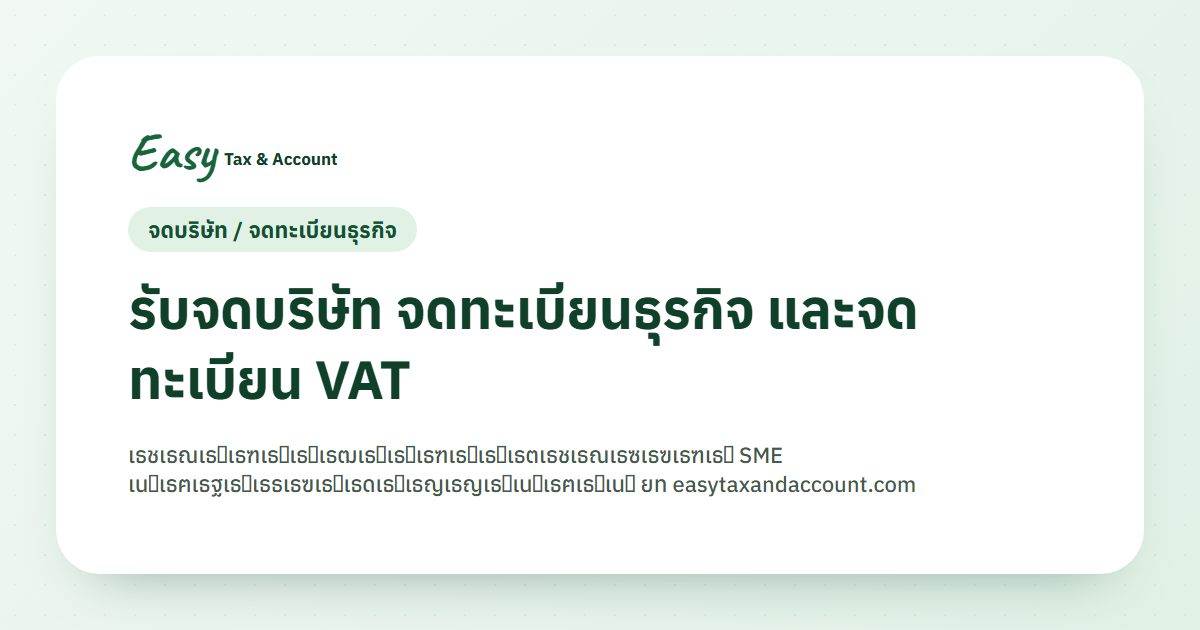
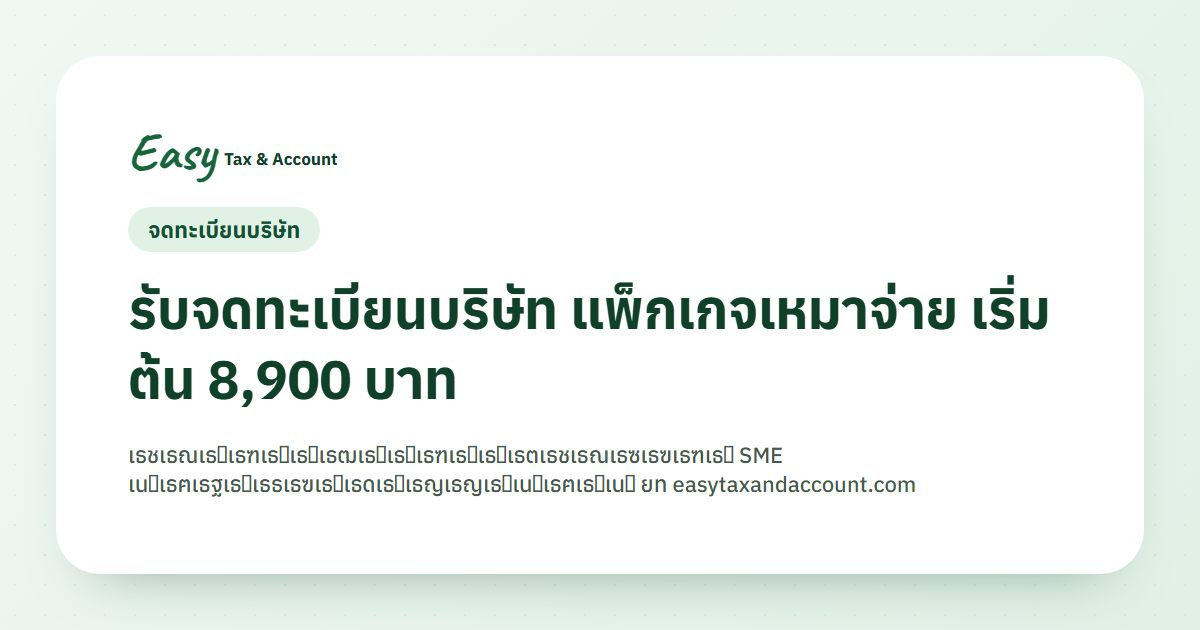
Add company registration packages (START / PLUS / PREMIUM)
- Service data can now carry packages, highlights and price notes; the service page renders package cards, a why-us checklist and a notes box
- Company registration page rewritten around the 8,900 / 11,900 / 15,900 baht packages with the 4-step process
- Package buttons prefill the quote form with the chosen package
- Offer structured data for the packages, and a refreshed share image

Changed region(s): [[0.2158, 0.4222, 0.8942, 0.5429], [0.0925, 0.5429, 0.4008, 0.6333], [0.1542, 0.3016, 0.37, 0.4222]]

diff --git a/src/data/services.ts b/src/data/services.ts
@@ -107,28 +107,102 @@ export const services: Service[] = [
   },
   {
     id: 'company-registration',
-    title: 'จดบริษัท / จดทะเบียนธุรกิจ',
-    description: 'ให้คำปรึกษาและดำเนินการครบทุกขั้นตอน',
+    title: 'จดทะเบียนบริษัท',
+    description: 'แพ็กเกจเหมาจ่าย เริ่มต้น 8,900 บาท รวมค่าธรรมเนียมราชการ',
     icon: Building2,
     featured: true,
-    pageTitle: 'รับจดบริษัท จดทะเบียนธุรกิจ และจดทะเบียน VAT',
+    pageTitle: 'รับจดทะเบียนบริษัท แพ็กเกจเหมาจ่าย เริ่มต้น 8,900 บาท',
     metaDescription:
-      'บริการจดทะเบียนบริษัท ห้างหุ้นส่วน จดทะเบียนพาณิชย์ และจดทะเบียนภาษีมูลค่าเพิ่ม ให้คำปรึกษาตั้งแต่เลือกรูปแบบธุรกิจจนเปิดดำเนินการได้',
+      'รับจดทะเบียนบริษัทครบวงจร เริ่มต้น 8,900 บาท รวมค่าธรรมเนียมราชการ ให้คำปรึกษา จองชื่อ เตรียมเอกสาร ยื่นจดทะเบียน พร้อมแพ็กเกจจด VAT ประกันสังคม และวางระบบบัญชี',
     intro: [
-      'ก่อนจดทะเบียน สิ่งสำคัญคือเลือกรูปแบบที่เหมาะกับธุรกิจจริง ๆ ระหว่างบุคคลธรรมดากับนิติบุคคล เพราะมีผลทั้งเรื่องภาษี ความน่าเชื่อถือ และภาระเอกสาร',
-      'ทีม Easy ให้คำปรึกษาก่อนตัดสินใจ แล้วดำเนินการจดทะเบียนให้ครบทุกขั้นตอน พร้อมวางระบบบัญชีให้ตั้งแต่วันแรก',
+      'เริ่มต้นธุรกิจอย่างมั่นใจ ให้ Easy Tax & Account ดูแลตั้งแต่เริ่มต้น บริการรับจดทะเบียนบริษัทครบวงจร ตั้งแต่ให้คำปรึกษา จองชื่อ จัดเตรียมเอกสาร ยื่นจดทะเบียน และแนะนำสิ่งที่ต้องดำเนินการหลังจัดตั้งบริษัท',
+      'แพ็กเกจราคาเหมาจ่าย พร้อมค่าธรรมเนียมราชการ สำหรับทุนจดทะเบียนไม่เกิน 1,000,000 บาท',
     ],
     includes: [
-      'ให้คำปรึกษาเลือกรูปแบบธุรกิจและวางแผนภาษีเบื้องต้น',
-      'ตรวจและจองชื่อนิติบุคคล จัดเตรียมเอกสารจดทะเบียน',
-      'จดทะเบียนบริษัทจำกัด ห้างหุ้นส่วน หรือจดทะเบียนพาณิชย์',
-      'ขอเลขประจำตัวผู้เสียภาษี และจดทะเบียนภาษีมูลค่าเพิ่ม (ถ้าต้องการหรือเข้าเกณฑ์)',
-      'ขึ้นทะเบียนนายจ้างกับประกันสังคม สำหรับกิจการที่มีลูกจ้าง',
+      'ให้คำปรึกษาก่อนจดทะเบียน',
+      'ตรวจสอบและจัดเตรียมเอกสาร',
+      'จองชื่อบริษัทและจัดทำคำขอจดทะเบียน',
+      'ดำเนินการยื่นจดทะเบียนบริษัท และติดตามงานจนจดทะเบียนสำเร็จ',
+      'ส่งมอบเอกสารสำคัญหลังจดทะเบียน',
+      'ให้คำแนะนำเกี่ยวกับสิ่งที่ต้องดำเนินการหลังจดทะเบียน',
+    ],
+    packages: [
+      {
+        id: 'start',
+        name: 'START',
+        tagline: 'จดทะเบียนบริษัท — เหมาะสำหรับผู้ที่ต้องการจัดตั้งบริษัทและให้ผู้เชี่ยวชาญดูแลขั้นตอนการจดทะเบียนให้ครบ',
+        price: '8,900',
+        unit: 'บาท',
+        priceNote: 'รวมค่าธรรมเนียมราชการตามรายการที่กำหนดแล้ว',
+        features: [
+          'ให้คำปรึกษาก่อนจดทะเบียน',
+          'ตรวจสอบและจัดเตรียมเอกสาร',
+          'จองชื่อบริษัท',
+          'จัดทำคำขอจดทะเบียน',
+          'ดำเนินการยื่นจดทะเบียนบริษัท',
+          'ค่าธรรมเนียมราชการตามรายการในแพ็กเกจ',
+          'เอกสารสำคัญหลังจดทะเบียน',
+          'ติดตามงานจนจดทะเบียนสำเร็จ',
+          'ให้คำแนะนำเกี่ยวกับสิ่งที่ต้องดำเนินการหลังจดทะเบียน',
+        ],
+      },
+      {
+        id: 'plus',
+        name: 'PLUS',
+        tagline: 'จดบริษัท + พร้อมดำเนินธุรกิจ — เหมาะสำหรับธุรกิจใหม่ที่ต้องการเตรียมความพร้อมด้านภาษีและการดำเนินงานหลังจัดตั้งบริษัท',
+        price: '11,900',
+        unit: 'บาท',
+        priceNote: 'รวมค่าธรรมเนียมราชการตามรายการที่กำหนดแล้ว',
+        featuresLabel: 'ได้รับทุกอย่างในแพ็กเกจ START พร้อม',
+        features: [
+          'ขึ้นทะเบียนภาษีมูลค่าเพิ่ม (VAT)',
+          'ขึ้นทะเบียนประกันสังคม',
+          'จัดเตรียมเอกสารสำหรับการยื่น VAT และประกันสังคม',
+          'Checklist สิ่งที่ต้องดำเนินการหลังจดบริษัท',
+          'ให้คำแนะนำด้านบัญชีและภาษีเบื้องต้น',
+        ],
+        highlighted: true,
+        badge: 'แนะนำ',
+      },
+      {
+        id: 'premium',
+        name: 'PREMIUM',
+        tagline: 'จดบริษัท + วางระบบบัญชี — เหมาะสำหรับเจ้าของธุรกิจที่ต้องการเริ่มต้นอย่างเป็นระบบตั้งแต่วันแรก',
+        price: '15,900',
+        unit: 'บาท',
+        priceNote: 'รวมค่าธรรมเนียมราชการตามรายการที่กำหนดแล้ว',
+        featuresLabel: 'ได้รับทุกอย่างในแพ็กเกจ PLUS พร้อม',
+        features: [
+          'วางระบบเอกสารบัญชีเบื้องต้น',
+          'ให้คำปรึกษาภาษีสำหรับธุรกิจใหม่',
+          'Checklist เอกสารบัญชีที่ต้องจัดเตรียม',
+          'ให้คำปรึกษาด้านบัญชีและภาษีหลังจดทะเบียน 60 วัน',
+        ],
+      },
+    ],
+    priceNotes: [
+      'ราคาดังกล่าวสำหรับทุนจดทะเบียนไม่เกิน 1,000,000 บาท',
+      'ค่าธรรมเนียมราชการรวมเฉพาะรายการที่ระบุไว้ในแพ็กเกจ',
+      'กรณีมีค่าใช้จ่ายเพิ่มเติมจากเงื่อนไขปกติ เช่น เอกสารหรือใบอนุญาตเฉพาะธุรกิจ สถานที่ตั้งบริษัท/สำนักงานเสมือน หรือค่าใช้จ่ายอื่นนอกเหนือจากแพ็กเกจ จะมีการแจ้งรายละเอียดและค่าใช้จ่ายให้ทราบก่อนดำเนินการ',
+      'การขึ้นทะเบียน VAT และประกันสังคมเป็นไปตามเงื่อนไขและเอกสารที่หน่วยงานกำหนด',
+    ],
+    highlights: [
+      'ดูแลตั้งแต่ก่อนจดจนถึงหลังจดทะเบียน',
+      'มีผู้เชี่ยวชาญด้านบัญชีและภาษีให้คำแนะนำ',
+      'แจ้งรายละเอียดค่าใช้จ่ายชัดเจน',
+      'มีแพ็กเกจให้เลือกตามความต้องการ',
+      'ต่อยอดบริการบัญชีและภาษีสำหรับธุรกิจได้ครบวงจร',
     ],
     forWho: [
-      'ผู้ที่กำลังเริ่มธุรกิจและยังไม่แน่ใจว่าควรจดบริษัทหรือไม่',
-      'ร้านค้าออนไลน์ที่ยอดขายเริ่มสูงและอยากทำให้ถูกต้อง',
+      'ผู้ที่กำลังเริ่มธุรกิจและต้องการจัดตั้งบริษัทให้ถูกต้องตั้งแต่แรก',
+      'ร้านค้าออนไลน์ที่ยอดขายเริ่มสูงและอยากทำให้เป็นระบบ',
       'ธุรกิจที่ต้องการออกใบกำกับภาษีให้ลูกค้าองค์กร',
+    ],
+    process: [
+      { step: 'ปรึกษาและวางแผน', detail: 'พูดคุยรายละเอียดธุรกิจและตรวจสอบข้อมูลเบื้องต้น' },
+      { step: 'จองชื่อและจัดเตรียมเอกสาร', detail: 'ช่วยเตรียมข้อมูลและเอกสารที่จำเป็นสำหรับการจดทะเบียน' },
+      { step: 'ดำเนินการจดทะเบียน', detail: 'ยื่นคำขอและติดตามขั้นตอนการจดทะเบียนกับหน่วยงานที่เกี่ยวข้อง' },
+      { step: 'รับเอกสารและแนะนำหลังจด', detail: 'ส่งมอบเอกสารสำคัญ พร้อมแนะนำสิ่งที่ธุรกิจควรดำเนินการต่อ' },
     ],
     relatedArticleIds: ['company-vs-individual', 'what-is-vat', 'first-employee-checklist'],
   },

diff --git a/src/pages/ServicePage.tsx b/src/pages/ServicePage.tsx
@@ -1,4 +1,5 @@
-import { ArrowRight, Check, MessageCircle, Send } from 'lucide-react';
+import { ArrowRight, Check, Info, MessageCircle, Send, Sparkles } from 'lucide-react';
+import { cn } from '../lib/cn';
 import { articles } from '../data/articles';
 import { services } from '../data/services';
 import { pricingDisclaimer } from '../data/pricing';
@@ -114,14 +115,146 @@ export function ServicePage({ service }: { service: Service }) {
         </div>
       </section>
 
+      {/* แพ็กเกจราคา (ถ้าบริการนี้มี) */}
+      {service.packages && service.packages.length > 0 && (
+        <section aria-labelledby="service-packages-title" className="bg-cream-50 py-14 sm:py-16 lg:py-20">
+          <div className="container-page">
+            <div className="mx-auto max-w-2xl text-center">
+              <h2 id="service-packages-title" className="text-2xl font-bold text-brand-900 sm:text-3xl lg:text-4xl">
+                เลือกแพ็กเกจที่เหมาะกับธุรกิจของคุณ
+              </h2>
+              <p className="mt-3 text-ink-soft">ราคาเหมาจ่าย รวมค่าธรรมเนียมราชการตามรายการในแพ็กเกจแล้ว</p>
+            </div>
+
+            <ul className="mx-auto mt-10 grid max-w-md gap-6 lg:mt-14 lg:max-w-none lg:grid-cols-3 lg:gap-6">
+              {service.packages.map((pkg) => (
+                <li key={pkg.id} className="flex">
+                  <article
+                    aria-labelledby={`pkg-${pkg.id}-title`}
+                    className={cn(
+                      'relative flex w-full flex-col rounded-[1.75rem] p-7 transition duration-300 ease-out sm:p-8',
+                      pkg.highlighted
+                        ? 'bg-white shadow-lift ring-2 ring-brand-600 lg:-my-4 lg:py-11'
+                        : 'border border-brand-100 bg-white shadow-soft hover:-translate-y-1 hover:shadow-lift',
+                    )}
+                  >
+                    {pkg.badge && (
+                      <span className="absolute -top-3.5 right-6 inline-flex items-center gap-1 rounded-full bg-sun-400 px-3.5 py-1 text-sm font-bold text-brand-950 shadow-[0_6px_16px_-8px_rgb(226_176_20/0.9)]">
+                        <Sparkles className="size-3.5" aria-hidden="true" />
+                        {pkg.badge}
+                      </span>
+                    )}
+
+                    <h3 id={`pkg-${pkg.id}-title`} className="text-sm font-bold tracking-[0.16em] text-brand-600">
+                      {pkg.name}
+                    </h3>
+                    <p className="mt-2 text-[0.9375rem] leading-relaxed text-ink-soft">{pkg.tagline}</p>
+
+                    <div className="mt-6 border-b border-dashed border-brand-200 pb-6">
+                      <p className="flex flex-wrap items-baseline gap-x-2">
+                        <span className="text-[2.5rem] font-bold leading-none tracking-tight text-brand-900">{pkg.price}</span>
+                        <span className="text-sm font-medium text-ink-muted">{pkg.unit}</span>
+                      </p>
+                      {pkg.priceNote && <p className="mt-2.5 text-[0.8125rem] text-ink-muted">* {pkg.priceNote}</p>}
+                    </div>
+
+                    {pkg.featuresLabel && (
+                      <p className="mt-6 text-[0.9375rem] font-semibold text-brand-800">{pkg.featuresLabel}</p>
+                    )}
+                    <ul className={cn('space-y-3', pkg.featuresLabel ? 'mt-3' : 'mt-6')}>
+                      {pkg.features.map((feature) => (
+                        <li key={feature} className="flex items-start gap-3 text-[0.9375rem] leading-relaxed text-ink">
+                          <span
+                            aria-hidden="true"
+                            className={cn(
+                              'mt-0.5 grid size-5 shrink-0 place-items-center rounded-full',
+                              pkg.highlighted ? 'bg-brand-600 text-white' : 'bg-brand-100 text-brand-700',
+                            )}
+                          >
+                            <Check className="size-3.5" strokeWidth={3} />
+                          </span>
+                          {feature}
+                        </li>
+                      ))}
+                    </ul>
+
+                    <Button
+                      size="lg"
+                      fullWidth
+                      variant={pkg.highlighted ? 'primary' : 'secondary'}
+                      className="mt-8"
+                      onClick={() =>
+                        openLeadForm({
+                          mode: 'quote',
+                          serviceId: service.id,
+                          note: `สนใจแพ็กเกจ ${pkg.name} (${service.title} ${pkg.price} ${pkg.unit})`,
+                        })
+                      }
+                      aria-label={`สนใจแพ็กเกจ ${pkg.name}`}
+                    >
+                      สนใจแพ็กเกจนี้
+                    </Button>
+                  </article>
+                </li>
+              ))}
+            </ul>
+
+            {service.priceNotes && (
+              <div className="mx-auto mt-10 max-w-3xl rounded-2xl border border-cream-300 bg-white px-5 py-5 sm:px-7">
+                <h3 className="flex items-center gap-2 font-bold text-brand-900">
+                  <Info className="size-5 text-brand-600" aria-hidden="true" />
+                  หมายเหตุ
+                </h3>
+                <ul className="mt-3 space-y-2.5">
+                  {service.priceNotes.map((note) => (
+                    <li key={note} className="flex gap-3 text-[0.9375rem] leading-relaxed text-ink-soft">
+                      <span aria-hidden="true" className="mt-[0.7em] size-1.5 shrink-0 rounded-full bg-brand-300" />
+                      {note}
+                    </li>
+                  ))}
+                </ul>
+              </div>
+            )}
+          </div>
+        </section>
+      )}
+
+      {/* จุดเด่นของบริการ */}
+      {service.highlights && service.highlights.length > 0 && (
+        <section aria-labelledby="service-highlights-title" className="bg-white py-14 sm:py-16">
+          <div className="container-page">
+            <h2 id="service-highlights-title" className="text-2xl font-bold text-brand-900 sm:text-3xl">
+              ทำไมต้อง Easy Tax &amp; Account?
+            </h2>
+            <ul className="mt-7 grid gap-3 sm:grid-cols-2 lg:grid-cols-3 lg:gap-4">
+              {service.highlights.map((item) => (
+                <li
+                  key={item}
+                  className="flex items-start gap-3 rounded-2xl border border-brand-100 bg-cream-50 px-5 py-4 text-[0.9375rem] leading-relaxed text-ink"
+                >
+                  <span aria-hidden="true" className="mt-0.5 grid size-5 shrink-0 place-items-center rounded-full bg-brand-600 text-white">
+                    <Check className="size-3.5" strokeWidth={3} />
+                  </span>
+                  {item}
+                </li>
+              ))}
+            </ul>
+          </div>
+        </section>
+      )}
+
       {/* ราคา + CTA */}
       <section aria-labelledby="service-price-title" className="bg-cream-50 py-14 sm:py-16">
         <div className="container-page">
           <div className="mx-auto max-w-3xl rounded-[1.75rem] border border-cream-300 bg-white p-7 text-center shadow-soft sm:p-10">
             <h2 id="service-price-title" className="text-2xl font-bold text-brand-900 sm:text-3xl">
-              ค่าบริการเท่าไหร่?
+              {service.packages ? 'พร้อมเริ่มต้นธุรกิจของคุณหรือยัง?' : 'ค่าบริการเท่าไหร่?'}
             </h2>
-            <p className="mx-auto mt-4 max-w-2xl text-[1.0625rem] leading-relaxed text-ink-soft">{pricingDisclaimer}</p>
+            <p className="mx-auto mt-4 max-w-2xl text-[1.0625rem] leading-relaxed text-ink-soft">
+              {service.packages
+                ? 'ให้ Easy Tax & Account ช่วยดูแลเรื่องจดทะเบียน บัญชี และภาษี ตั้งแต่วันแรก ปรึกษาก่อนตัดสินใจได้ฟรี'
+                : pricingDisclaimer}
+            </p>
             <div className="mt-7 flex flex-col justify-center gap-3 sm:flex-row">
               <Button size="lg" onClick={() => openLeadForm({ mode: 'quote', serviceId: service.id })}>
                 <Send aria-hidden="true" />

diff --git a/src/types.ts b/src/types.ts
@@ -41,6 +41,12 @@ export interface Service {
   process?: { step: string; detail: string }[];
   /** id ของบทความที่เกี่ยวข้อง */
   relatedArticleIds: string[];
+  /** แพ็กเกจราคาของบริการนี้ (ถ้ามี จะแสดงเป็นการ์ดราคาในหน้าบริการ) */
+  packages?: ServicePackage[];
+  /** จุดเด่นของบริการ แสดงเป็นเช็กลิสต์ "ทำไมต้อง Easy" */
+  highlights?: string[];
+  /** หมายเหตุเรื่องราคา/เงื่อนไข แสดงใต้แพ็กเกจ */
+  priceNotes?: string[];
 }
 
 export interface PricingPlan {
@@ -117,8 +123,28 @@ export interface LeadFormValues {
   consent: boolean;
 }
 
+export interface ServicePackage {
+  id: string;
+  /** ชื่อแพ็กเกจ เช่น START */
+  name: string;
+  /** คำโปรยสั้น ๆ ใต้ชื่อแพ็กเกจ */
+  tagline: string;
+  /** ราคาแบบเหมาจ่าย เช่น "8,900" */
+  price: string;
+  unit: string;
+  /** ข้อความใต้ราคา เช่น "รวมค่าธรรมเนียมราชการตามรายการที่กำหนด" */
+  priceNote?: string;
+  /** หัวข้อเหนือรายการ เช่น "ได้รับทุกอย่างใน START พร้อม" */
+  featuresLabel?: string;
+  features: string[];
+  highlighted?: boolean;
+  badge?: string;
+}
+
 export interface LeadPreset {
   mode?: LeadMode;
   planId?: string;
   serviceId?: string;
+  /** ข้อความที่เติมในช่อง "รายละเอียดเพิ่มเติม" ให้อัตโนมัติ เช่น แพ็กเกจที่ลูกค้าสนใจ */
+  note?: string;
 }

diff --git a/src/seo.ts b/src/seo.ts
@@ -193,6 +193,17 @@ export function getPageMeta(route: Route): PageMeta {
               telephone: siteConfig.contact.phoneDisplay,
               email: siteConfig.contact.email,
             },
+            ...(service.packages
+              ? {
+                  offers: service.packages.map((pkg) => ({
+                    '@type': 'Offer',
+                    name: `${service.title} — ${pkg.name}`,
+                    price: pkg.price.replace(/,/g, ''),
+                    priceCurrency: 'THB',
+                    url: absoluteUrl(path),
+                  })),
+                }
+              : {}),
           },
           breadcrumb([
             { name: 'หน้าแรก', path: '/' },

diff --git a/src/components/LeadFormModal.tsx b/src/components/LeadFormModal.tsx
@@ -60,7 +60,7 @@ function LeadForm() {
     vatStatus: '',
     services: preset.serviceId ? [preset.serviceId] : [],
     plan: selectedPlan?.id ?? '',
-    details: '',
+    details: preset.note ?? '',
     consent: false,
   });
   const [errors, setErrors] = useState<Errors>({});

diff --git a/README.md b/README.md
@@ -123,6 +123,8 @@ src/
 | `relatedArticleIds` | บทความที่แสดงท้ายหน้า (ใส่ `id` ของบทความ) |
 | `featured` | `true` = แสดงในหน้าแรก |
 
+ถ้าบริการไหนมีราคาแบบแพ็กเกจ (เช่น จดทะเบียนบริษัท) ให้ใส่ `packages`, `highlights` และ `priceNotes` เพิ่ม — หน้าบริการจะแสดงการ์ดราคา เช็กลิสต์จุดเด่น และกล่องหมายเหตุให้อัตโนมัติ และปุ่ม "สนใจแพ็กเกจนี้" จะเติมชื่อแพ็กเกจลงในฟอร์มให้
+
 อย่าลืมสร้างรูปแชร์ `public/images/og/service-<id>.jpg` ด้วย (ถ้าไม่มี ตอน build จะขึ้นคำเตือน)
 
 **ส่วนรีวิวลูกค้า** — แก้ที่ `src/data/testimonials.ts`
